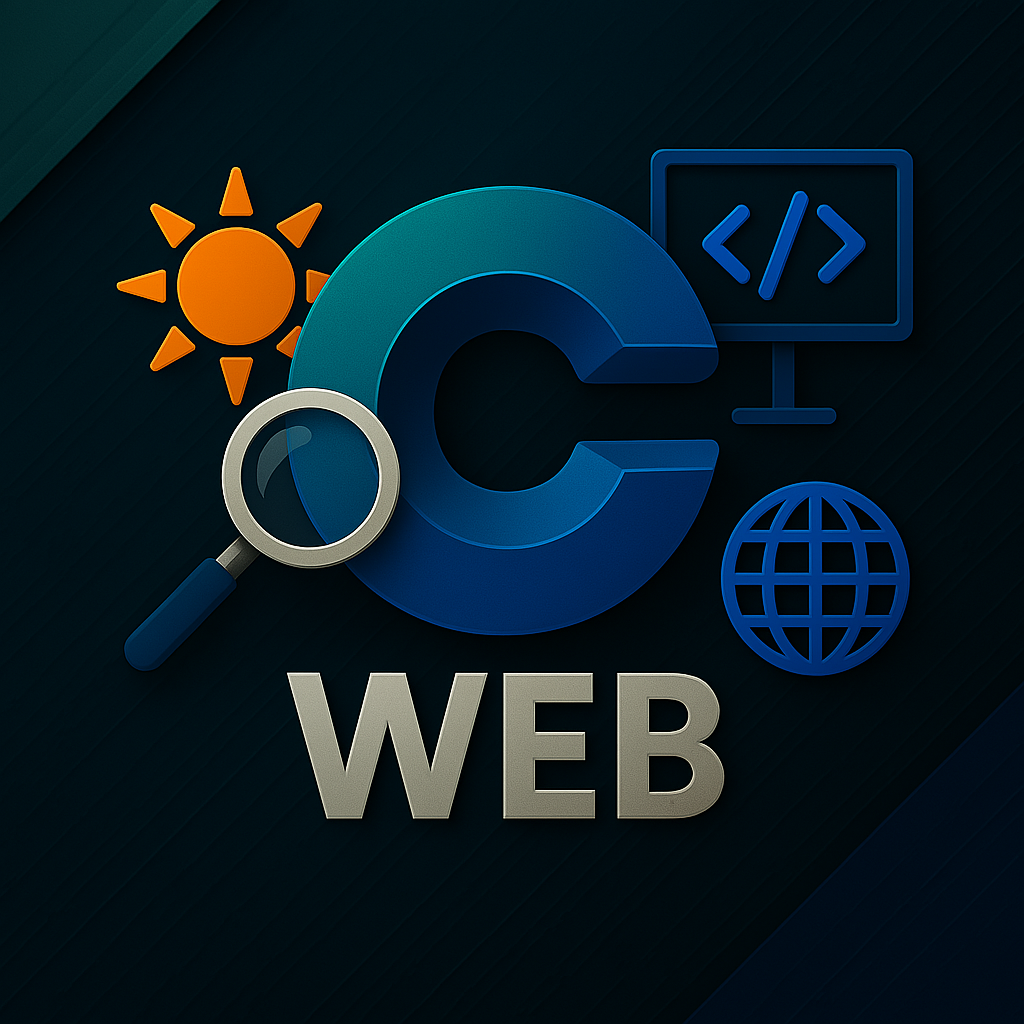
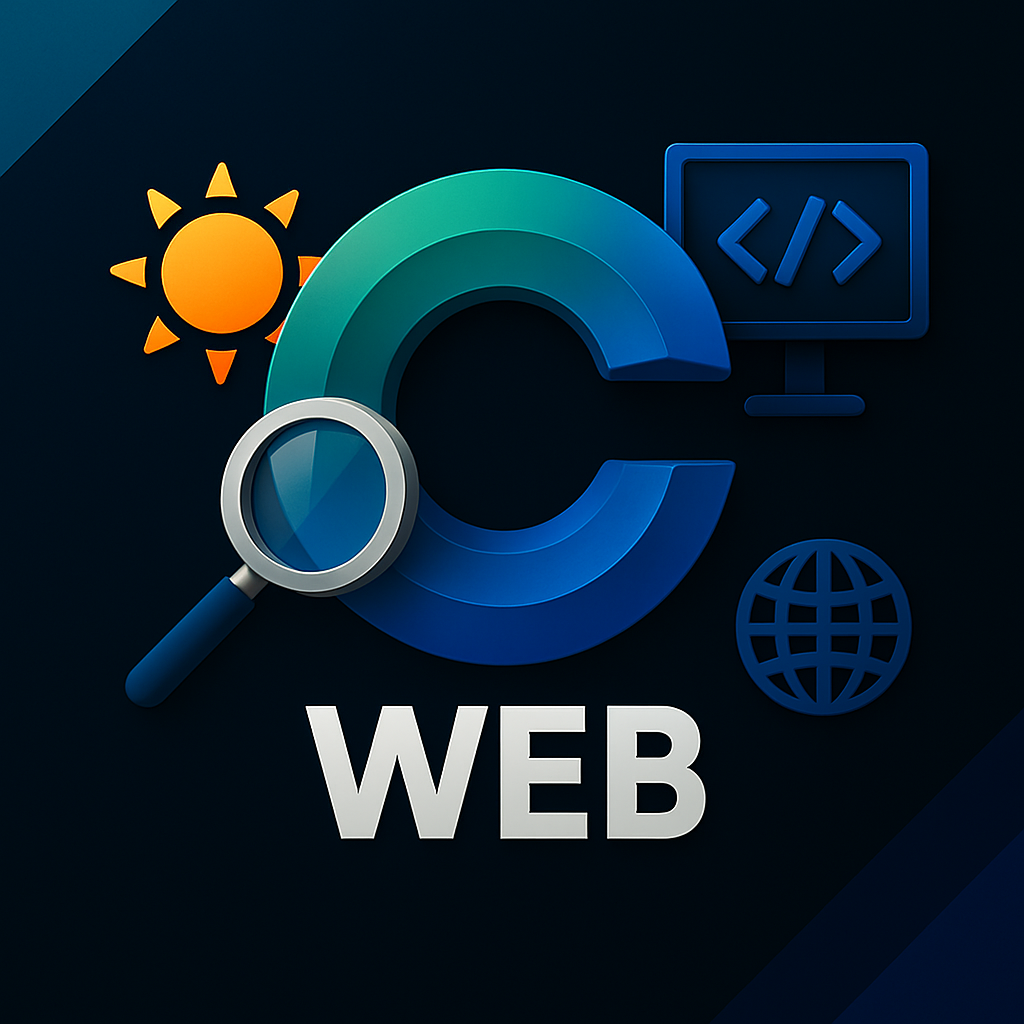
Weather Wise: Web Alpha: 1.4.8

Changed region(s): [[0.0938, 0.125, 0.9062, 0.8438], [0.0, 0.0, 0.25, 0.2188]]

diff --git a/flutter_service_worker.js b/flutter_service_worker.js
@@ -3,10 +3,10 @@ const MANIFEST = 'flutter-app-manifest';
 const TEMP = 'flutter-temp-cache';
 const CACHE_NAME = 'flutter-app-cache';
 
-const RESOURCES = {".git/COMMIT_EDITMSG": "ad1133205c9c6c7b5e6138f79a6f546d",
+const RESOURCES = {".git/COMMIT_EDITMSG": "bc451f7c70497c91a3d712caf7b21a05",
 ".git/config": "66dd5ffa0a197515df0cff32f41eabfb",
 ".git/description": "a0a7c3fff21f2aea3cfa1d0316dd816c",
-".git/FETCH_HEAD": "14258245d8f13d5be42aafc92e9791ac",
+".git/FETCH_HEAD": "63484bed91c07a819b8faf6660cf8cdd",
 ".git/HEAD": "5ab7a4355e4c959b0c5c008f202f51ec",
 ".git/hooks/applypatch-msg.sample": "ce562e08d8098926a3862fc6e7905199",
 ".git/hooks/commit-msg.sample": "579a3c1e12a1e74a98169175fb913012",
@@ -22,15 +22,16 @@ const RESOURCES = {".git/COMMIT_EDITMSG": "ad1133205c9c6c7b5e6138f79a6f546d",
 ".git/hooks/push-to-checkout.sample": "c7ab00c7784efeadad3ae9b228d4b4db",
 ".git/hooks/sendemail-validate.sample": "4d67df3a8d5c98cb8565c07e42be0b04",
 ".git/hooks/update.sample": "647ae13c682f7827c22f5fc08a03674e",
-".git/index": "b119fa4abc8fad18a7d9244d3433bdc6",
+".git/index": "ef83604c6a3c91fb4cf6755cc96daf90",
 ".git/info/exclude": "036208b4a1ab4a235d75c181e685e5a3",
-".git/logs/HEAD": "3b08fb078019c8486dd9c0c944abe75b",
-".git/logs/refs/heads/gh-pages": "3b08fb078019c8486dd9c0c944abe75b",
-".git/logs/refs/remotes/origin/gh-pages": "2f0d62d2b85f1577f32c1dc308447904",
+".git/logs/HEAD": "b34f64e4ce3f26739db29ec01b89f380",
+".git/logs/refs/heads/gh-pages": "b34f64e4ce3f26739db29ec01b89f380",
+".git/logs/refs/remotes/origin/gh-pages": "8cbc99a140d1ee40bc9ffc46b8c86923",
 ".git/logs/refs/remotes/origin/HEAD": "48104302805cbf2d2b83af2c2cf0a46a",
 ".git/logs/refs/remotes/origin/main": "92919a4dc486005e8f06763922c11a6c",
 ".git/logs/refs/remotes/origin/master": "42d613704c907e1e4ce876e42f5446bd",
 ".git/logs/refs/remotes/origin/web": "9b93f471a2eb19209b464a90ed0f75a0",
+".git/objects/02/3e07da59157695ec9284f99aa50b306acf8ad9": "be6567f1f7eb27d16a76fca122dc3738",
 ".git/objects/03/88755be798ad2d8b41dd588761e81339cdf2a7": "4b271fc1a59d89411e5f0a0150e1786b",
 ".git/objects/06/275396423a0ed9f82bc4ec62666767787c98f1": "1dd9c33852b6226cabd039b72b60ba33",
 ".git/objects/08/916fc982d575320916cf80c3e51fb5e49d277a": "44d09906b948c23f94eacf12285c16fc",
@@ -52,8 +53,10 @@ const RESOURCES = {".git/COMMIT_EDITMSG": "ad1133205c9c6c7b5e6138f79a6f546d",
 ".git/objects/3f/d81247af956e5bfc5aede63e40fe61c5fccf2a": "d5a05c294fc054524d3bc6065a5dc319",
 ".git/objects/45/1bb2ccb5622e2c22eae3cc67f7ce3e362268a9": "142eb94a58123f63c66c733fe159a24f",
 ".git/objects/46/cf076f9222363dffdb7293a4d2736c506073a0": "28b5b5529e40980735c3df389b46f516",
+".git/objects/48/01618745c64736bd747de74123900436cfdc7b": "410d7eee6e3e8fb6e00023d7f0ad1aa9",
 ".git/objects/4a/7d313fa2c4b30a8f377150404bb1b1c898a678": "98b99c09a0b24d985fdda0800e439f32",
 ".git/objects/4f/1e1555f2ed746ef53a2ada292ea83534c7ff91": "8e8c51f85b542818235291e0c114974e",
+".git/objects/50/c0fbbb221f997883c67a070dcec799d9cfd4b8": "f0ed45f11c782062f93502050b054736",
 ".git/objects/51/92b16de465827a90206d03015f28b40e0e2da8": "77b26714548d38e207012ef39ebb8d6e",
 ".git/objects/57/e9be549a922bc48a28ba719c5090c0e00da45c": "f93b8c6541b4f835381769f80073b386",
 ".git/objects/5c/1c4381e840a53dd5e1c1581deb4356c53da605": "341386e19843b62fe0254b3bbb903911",
@@ -62,6 +65,8 @@ const RESOURCES = {".git/COMMIT_EDITMSG": "ad1133205c9c6c7b5e6138f79a6f546d",
 ".git/objects/6c/55143b27216d6eb54d1181f63110761797072d": "d3cafec09514935b20b1811e8f88ec37",
 ".git/objects/6d/ef2add1f6c1d648bb580f894dc2c894a5fad9e": "37e96cbfeedc36777ab233fbccc3b113",
 ".git/objects/73/74a4a4f5eead4d0a696611ee229c261b6815b9": "1dea1c25dd58e12ea45c9a498d6019df",
+".git/objects/77/6d8b7f919b39bf9c05e55d953824c30ffeabf2": "e4f702583724b42bc879be9897bba2ad",
+".git/objects/7a/360a227bbfc806c7dcac5eb173921520128de1": "8372b4798e497bcdc3609df17780d729",
 ".git/objects/7e/8130af35ae890be6a0f7719e1466611c3bd832": "11e8439c541099317c10a0c464319695",
 ".git/objects/80/19d76ef8157042a6caacc85be1617618759454": "3444a0350f21caf56407de3784e69059",
 ".git/objects/81/f569f79293a011a399736f12263d2035da5af7": "d1363429d6860130dddb75231e4d6655",
@@ -80,8 +85,10 @@ const RESOURCES = {".git/COMMIT_EDITMSG": "ad1133205c9c6c7b5e6138f79a6f546d",
 ".git/objects/aa/24bad9baed0da3e5390b5718852176054536d5": "1d1279a95f9390476688b04a37659055",
 ".git/objects/aa/53ab26ff1b6fdb354c3b82cec7a9e6c1abefff": "d8b2ebb55c3d75eeda4591e84a5f02f2",
 ".git/objects/ab/4c3c11cbcd7d2dfb5661aed4fbea486d911b40": "3b0fe354e02a33d1f28b5664c1db93b8",
+".git/objects/ac/9e49b0c3421d59147709bd46c6916742148da0": "be899e92deb582d774056b20ceec4886",
 ".git/objects/b0/a09d4cd34a69bfa7aa114232028cdc16512f01": "523e6424d2bdd091c5c9adea9e939e4d",
 ".git/objects/b3/fc595e8d7532933367ab64ab69a5e30faaee79": "531361a3dac7ed0d5c1998d7be923f20",
+".git/objects/b6/a511888974aad435f1223eedbf7680b62b2464": "4115ba14e1851959718a232b1251c323",
 ".git/objects/b8/69fa2c047d58d837c43bacef59028844714342": "ec52615da73f730ae8ca0c359786a845",
 ".git/objects/bc/a784a35176a4be4296a7dba8d4a77657c491a8": "8d7248f663d8501eef40b90b4c6cf858",
 ".git/objects/bf/62158ecac179a8e7faf9a945cec2ee9a9bb402": "5e27e6b9e04a38aba0d51042251bf064",
@@ -95,12 +102,15 @@ const RESOURCES = {".git/COMMIT_EDITMSG": "ad1133205c9c6c7b5e6138f79a6f546d",
 ".git/objects/d1/704d5f7e1b633372191c08676c3e7ea26444fe": "d1458b5854cf6e5945dfc2f87b0b5107",
 ".git/objects/d5/17ce0e4469c4b722bc8b655a153ac69da1095f": "970ec608d4972a39fb5b99e7c746e1b6",
 ".git/objects/d8/c5fd6f6f0ca90cbefe57adb3088b57e666e226": "6b8dd09054578fcf291ba9158d47ed15",
+".git/objects/d9/642ea671dd5815fa400a9b740258cdfc117004": "3275862259a49544781087660bf52ba1",
 ".git/objects/dc/3787a514ae61cfd93359ab1b17c26c6afc6480": "4277bc9a2ecd5aed971de3a748481d2f",
+".git/objects/df/f023e48035e8e4c8cf3dbe68a80e340f70a11c": "cf395cf08881276b0cd14e453575b67e",
 ".git/objects/e1/2148d1d31d7afe43f9f8f289733ca8957aef11": "1f9a4221cce0c97ff4e0ad18d357cd3f",
 ".git/objects/e5/838f2b5db2a9eb37b57e1c8d0dc8ff8a23afc8": "d7020475c8a02c48254d425f2f3da3f5",
 ".git/objects/e6/939dbd3b284d0e0a495d95fb8f435654f94dc0": "07f7f09fc7775987cd472ddac1eea39c",
 ".git/objects/e8/ca4845fff659eacb46b81581e7d6af096289ee": "77ea7d4d4fba830edaaeb666061ecefb",
 ".git/objects/ea/497f4f00030b3bdfd78a206a6459444e0c9be4": "2b9c7d90a3622d0c04d3d8110f87f041",
+".git/objects/ea/fdfa395674e4737056666311f58df92ccdf1a3": "47b9c8d19f2909f98003fffc0b679a23",
 ".git/objects/ed/8d51a2a98fac770c0f0e4e360efd91495d27dc": "72fdf243334da53fc98450b310c4b937",
 ".git/objects/ee/439d44b2aa6fbc88610346927a350b91770485": "94b640fb5b4997ad1be9206af9583d8d",
 ".git/objects/f1/bd7d654016db4863fb871f3176488c18a9d598": "8aa72e465280655263a50ecc2e6bf49b",
@@ -112,14 +122,15 @@ const RESOURCES = {".git/COMMIT_EDITMSG": "ad1133205c9c6c7b5e6138f79a6f546d",
 ".git/objects/f8/4770b7f4a696986a63edb8f41f93ce0bd1d324": "4343fd0f87efd6a9336c23999d9d5ebe",
 ".git/objects/f9/de6fa7054437d9340e212a6524c909ae598edc": "647e40f1bf36db54e2a78ed88311a486",
 ".git/objects/fa/2733c549800c16a6b5de7eb2d013a449a8e6b8": "9604a075221ecc4443219d17ca2b4a55",
+".git/objects/fa/ffebea89016d294b2fc589891a5c2f761d2ab4": "e2eb43f8bcb03efad3cb80129fe06440",
 ".git/objects/fc/389c3ed8c019a33e5e9e7ea8f070e4ab45272d": "faee72e37ff8fc9de9fda005a5fb78e6",
 ".git/objects/pack/pack-c14b1f48427afce583c12ce7363a04b24d2a2cd8.idx": "47d848b79c7142c5de02863a2589d71a",
 ".git/objects/pack/pack-c14b1f48427afce583c12ce7363a04b24d2a2cd8.pack": "0216b1b493ad4a28115c1fc9f1d9dd6d",
 ".git/objects/pack/pack-c14b1f48427afce583c12ce7363a04b24d2a2cd8.rev": "dfe600e5f6fcf0194e63848997c0e4d1",
 ".git/ORIG_HEAD": "1e312f22c9b790af11ed486292262f1f",
 ".git/packed-refs": "f72d41b0ad96a7fe90119ce3bd5d9a93",
-".git/refs/heads/gh-pages": "8cb450657edc1947458ff757c2b147e6",
-".git/refs/remotes/origin/gh-pages": "8cb450657edc1947458ff757c2b147e6",
+".git/refs/heads/gh-pages": "b3582ae64c24b405b31d20bcf7dbd9a4",
+".git/refs/remotes/origin/gh-pages": "b3582ae64c24b405b31d20bcf7dbd9a4",
 ".git/refs/remotes/origin/HEAD": "b501512a260537c5e52df65d2a034251",
 ".git/refs/remotes/origin/main": "3fc567b1bb84d5e04a7f17fd3e1a6cee",
 ".git/refs/remotes/origin/master": "3ecc6c06cbab8afdc1ee241fead51dff",
@@ -136,7 +147,7 @@ const RESOURCES = {".git/COMMIT_EDITMSG": "ad1133205c9c6c7b5e6138f79a6f546d",
 "assets/assets/fonts/space_grotesk/SpaceGrotesk-Medium.ttf": "518133df6fcaf4237f97187e2ea1019e",
 "assets/assets/fonts/space_grotesk/SpaceGrotesk-Regular.ttf": "778bb9a271006ab9d103287699611325",
 "assets/assets/fonts/space_grotesk/SpaceGrotesk-SemiBold.ttf": "b7bae4f584fc5d817de4178708946eb0",
-"assets/assets/icon/icon.png": "20cbde6abca65c2c14bc1fafca9b7789",
+"assets/assets/icon/icon.png": "fddc0f19feec8c4c0695e25a9e764e2a",
 "assets/assets/image/background/wi_10.webp": "ae8c6de1aaffe5a937a17c18b471b126",
 "assets/assets/image/background/wi_100.webp": "9bcb11f4bb8c73a4c987cdcb915c8711",
 "assets/assets/image/background/wi_101.webp": "56eba47a03a3abfc43ac41332be8978c",
@@ -294,26 +305,26 @@ const RESOURCES = {".git/COMMIT_EDITMSG": "ad1133205c9c6c7b5e6138f79a6f546d",
 "canvaskit/skwasm.wasm": "39dd80367a4e71582d234948adc521c0",
 "favicon.png": "bd4483daac757488cd19fa1ef5706e17",
 "flutter.js": "83d881c1dbb6d6bcd6b42e274605b69c",
-"flutter_bootstrap.js": "aebe7093f7a1f7dc6f51867f2178168f",
-"icons/Icon-192.png": "20cbde6abca65c2c14bc1fafca9b7789",
-"icons/Icon-512.png": "20cbde6abca65c2c14bc1fafca9b7789",
-"icons/Icon-maskable-192.png": "20cbde6abca65c2c14bc1fafca9b7789",
-"icons/Icon-maskable-512.png": "20cbde6abca65c2c14bc1fafca9b7789",
-"icons/icon.png": "20cbde6abca65c2c14bc1fafca9b7789",
-"index.html": "99bce7b593b62f77531964a5a3e35efe",
-"/": "99bce7b593b62f77531964a5a3e35efe",
+"flutter_bootstrap.js": "e022f1628d4e3530a7587f21a86e510a",
+"icons/Icon-192.png": "582b9a664bdf6fe6894d3070d9c925bc",
+"icons/Icon-512.png": "d09972499cfd94ff64c8931556717f39",
+"icons/Icon-maskable-192.png": "582b9a664bdf6fe6894d3070d9c925bc",
+"icons/Icon-maskable-512.png": "d09972499cfd94ff64c8931556717f39",
+"icons/icon.png": "fddc0f19feec8c4c0695e25a9e764e2a",
+"index.html": "46da8d2043d3964710d4b450b69db955",
+"/": "46da8d2043d3964710d4b450b69db955",
 "main.dart.js": "932e613ab902683eb6b39645b84da1e0",
 "manifest.json": "6f317e8616567466e0a30e12e97d0c62",
 "README.md": "f98b27cf5bd46874aa2fb227f729d4e8",
-"splash/img/dark-1x.png": "1df007c09fdbe861259a489e1bb9d60f",
-"splash/img/dark-2x.png": "044899ca96a1ad57d3af5ea63f89aaed",
-"splash/img/dark-3x.png": "d6520ae488d7df0142905875dda513f9",
-"splash/img/dark-4x.png": "7c68a29bf0f05c9291aa57fc9365734e",
-"splash/img/light-1x.png": "1df007c09fdbe861259a489e1bb9d60f",
-"splash/img/light-2x.png": "044899ca96a1ad57d3af5ea63f89aaed",
-"splash/img/light-3x.png": "d6520ae488d7df0142905875dda513f9",
-"splash/img/light-4x.png": "7c68a29bf0f05c9291aa57fc9365734e",
-"version.json": "b76d798196ea895a374ffa12e732b033"};
+"splash/img/dark-1x.png": "3c0a89cda0ea3daaf65411db596b7fa4",
+"splash/img/dark-2x.png": "c9adf95d40c5346da10c74b6c053f435",
+"splash/img/dark-3x.png": "06fefcd4044b42d7cb015ae3e5ef565b",
+"splash/img/dark-4x.png": "fd002dafb4c3d6bcd4307970d7c64cb9",
+"splash/img/light-1x.png": "3c0a89cda0ea3daaf65411db596b7fa4",
+"splash/img/light-2x.png": "c9adf95d40c5346da10c74b6c053f435",
+"splash/img/light-3x.png": "06fefcd4044b42d7cb015ae3e5ef565b",
+"splash/img/light-4x.png": "fd002dafb4c3d6bcd4307970d7c64cb9",
+"version.json": "14faf7028d092a2f31865c61a5d65d53"};
 // The application shell files that are downloaded before a service worker can
 // start.
 const CORE = ["main.dart.js",

diff --git a/index.html b/index.html
@@ -111,6 +111,8 @@
   
   
   
+  
+  
   <style id="splash-screen-style">
     html {
       height: 100%
@@ -184,6 +186,7 @@
       <source srcset="splash/img/dark-1x.png 1x, splash/img/dark-2x.png 2x, splash/img/dark-3x.png 3x, splash/img/dark-4x.png 4x" media="(prefers-color-scheme: dark)">
       <img class="center" aria-hidden="true" src="splash/img/light-1x.png" alt="">
   </picture>
+  
   
   
   

diff --git a/flutter_bootstrap.js b/flutter_bootstrap.js
@@ -39,6 +39,6 @@ _flutter.buildConfig = {"engineRevision":"8cd19e509d6bece8ccd74aef027c4ca9473630
 
 _flutter.loader.load({
   serviceWorkerSettings: {
-    serviceWorkerVersion: "1911332905"
+    serviceWorkerVersion: "3071573332"
   }
 });
